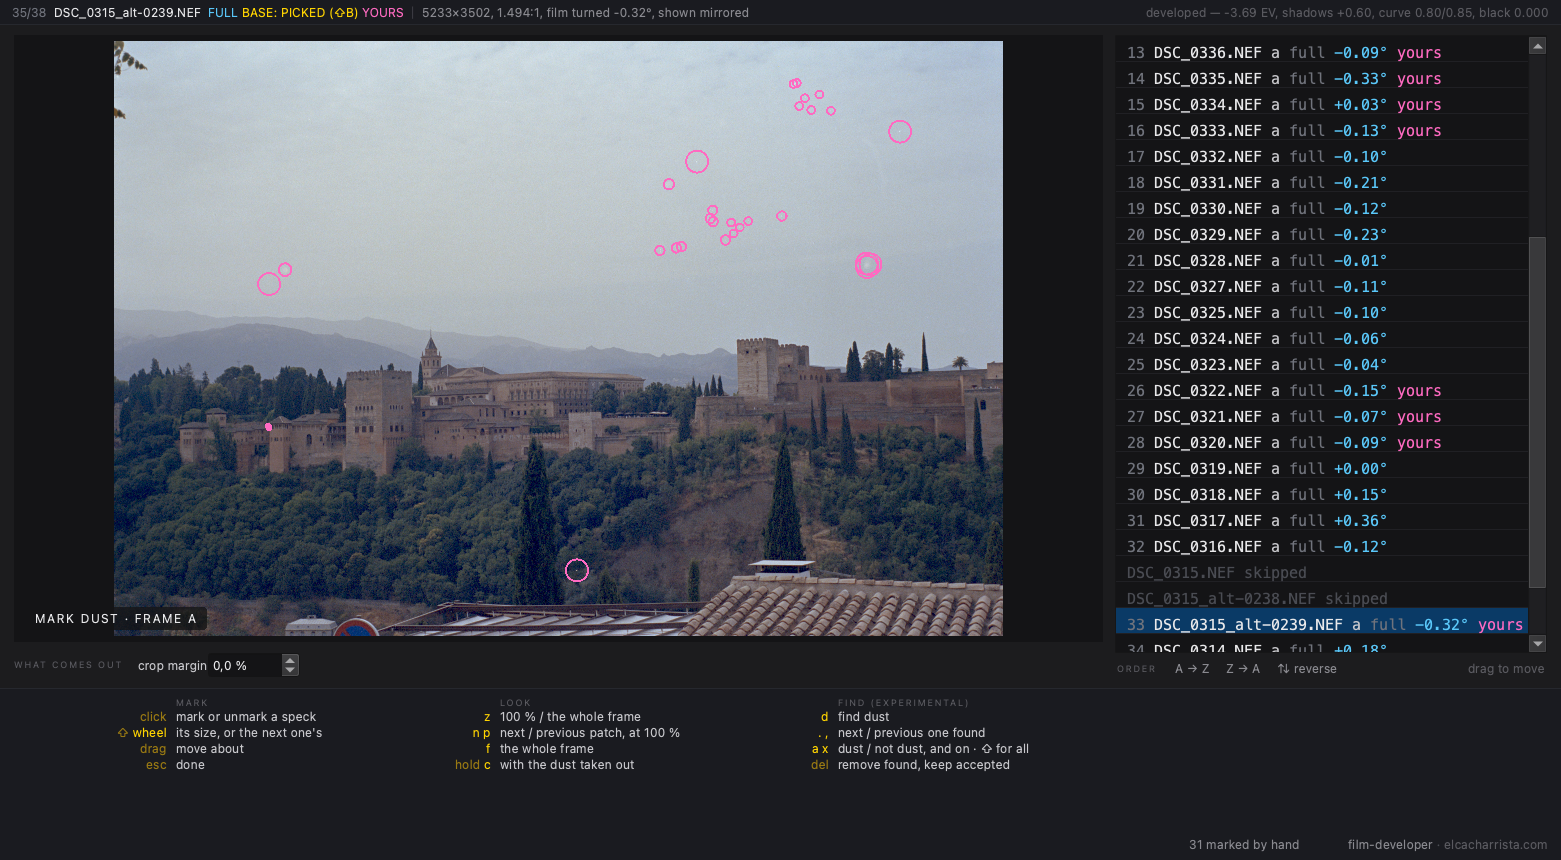
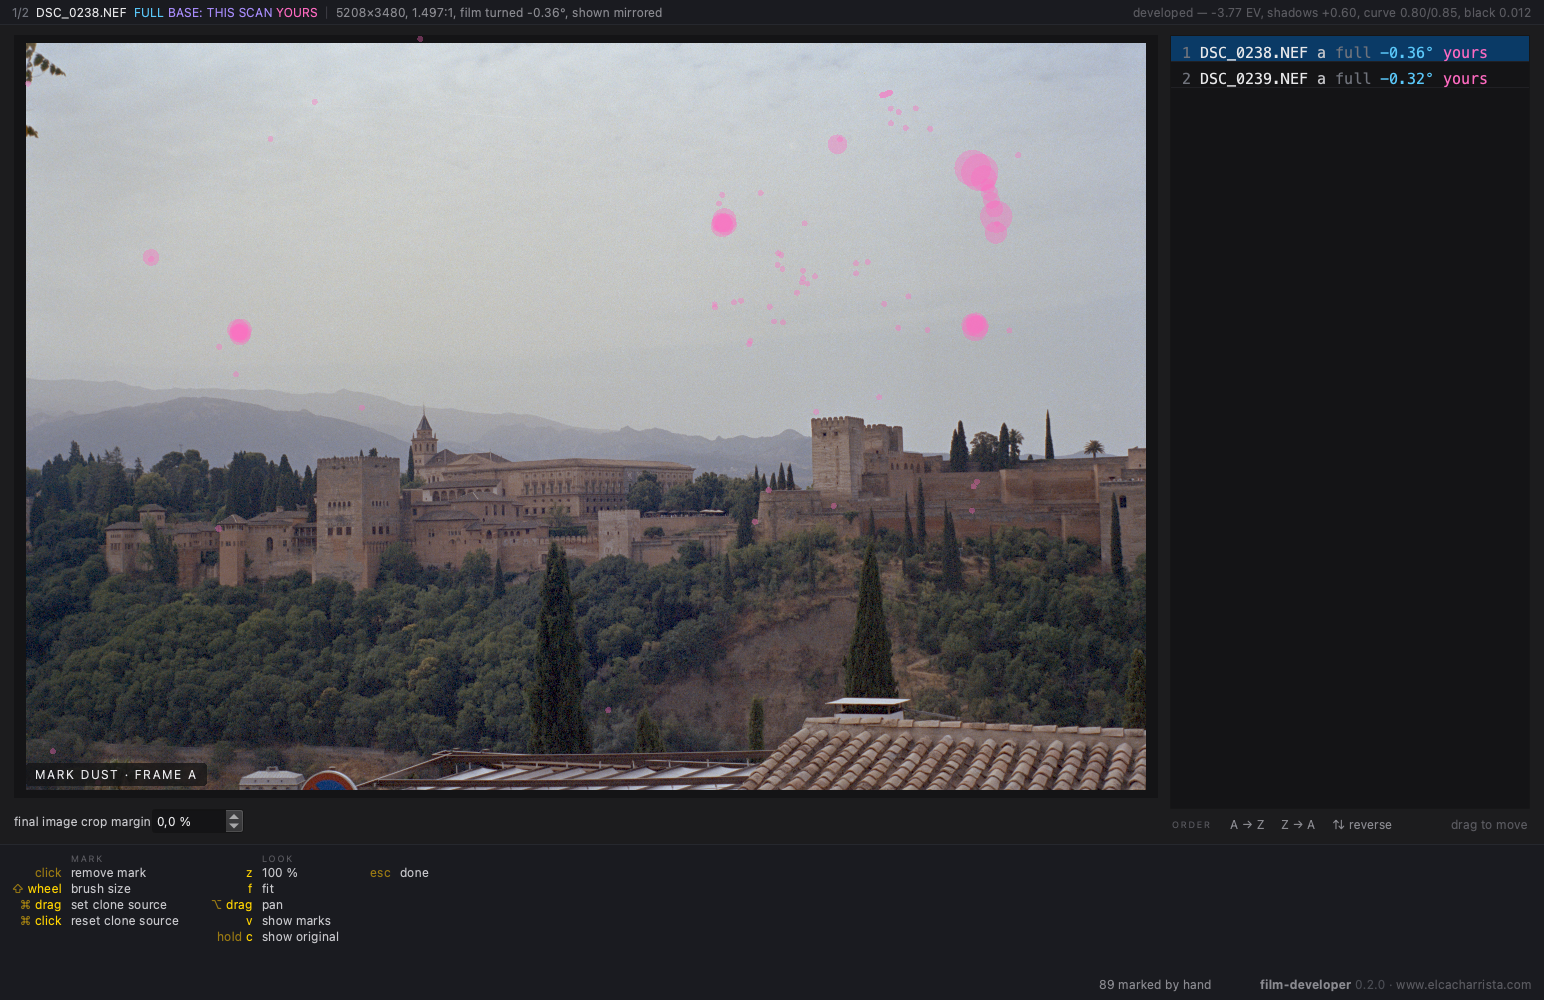
The README pictures with the brush, and the ⌘R sheet headed Files to write

diff --git a/src/film_developer/editor.py b/src/film_developer/editor.py
@@ -4624,7 +4624,7 @@ class Editor(QMainWindow):
         self._process(alone=True)
 
     def _process(self, alone=False):
-        """`⌘R`: what should come out of this roll. One sheet for both
+        """`⌘R`: the files to write for this roll. One sheet for both
         outputs, because they are one question, and the work then runs in
         the progress window."""
         import os

diff --git a/src/film_developer/processing.py b/src/film_developer/processing.py
@@ -67,7 +67,7 @@ def ask(doc, parent=None, chosen=(), alone=False):
     v.setContentsMargins(26, 22, 26, 18)
     v.setSpacing(12)
 
-    head = QLabel("What should come out of this roll?")
+    head = QLabel("Files to write")
     head.setStyleSheet("font-size: 15px;")
     v.addWidget(head)
 

diff --git a/README.md b/README.md
@@ -103,7 +103,7 @@ area: view, crop, colour, dust and process.
 
 <p align="center">
   <img src="docs/images/frames.png" width="400"
-       alt="Placing the frame by hand: its corners, and the film base picked beside it">
+       alt="Placing the frame by hand: its corners">
   &nbsp;
   <img src="docs/images/dust.png" width="400"
        alt="Marking dust by hand, on the frame developed at full size">
@@ -118,9 +118,9 @@ picture around it.
 
 <p align="center">
   <img src="docs/images/dust-before-after.jpg" width="560"
-       alt="Four dust examples: before, the marks, and after">
+       alt="Three dust examples: before, the marks, and after">
   <br>
-  <sub>Before, the marks, and the developed photo. A hair across two wires, then three on a frame of the Alhambra: a fibre by a window, a fibre in the sky, and a soft blur of dust.</sub>
+  <sub>Before, the marks, and the developed photo. A hair across two wires, then two fibres on a frame of the Alhambra: one by a window and one in the sky.</sub>
 </p>
 
 ## How it works
